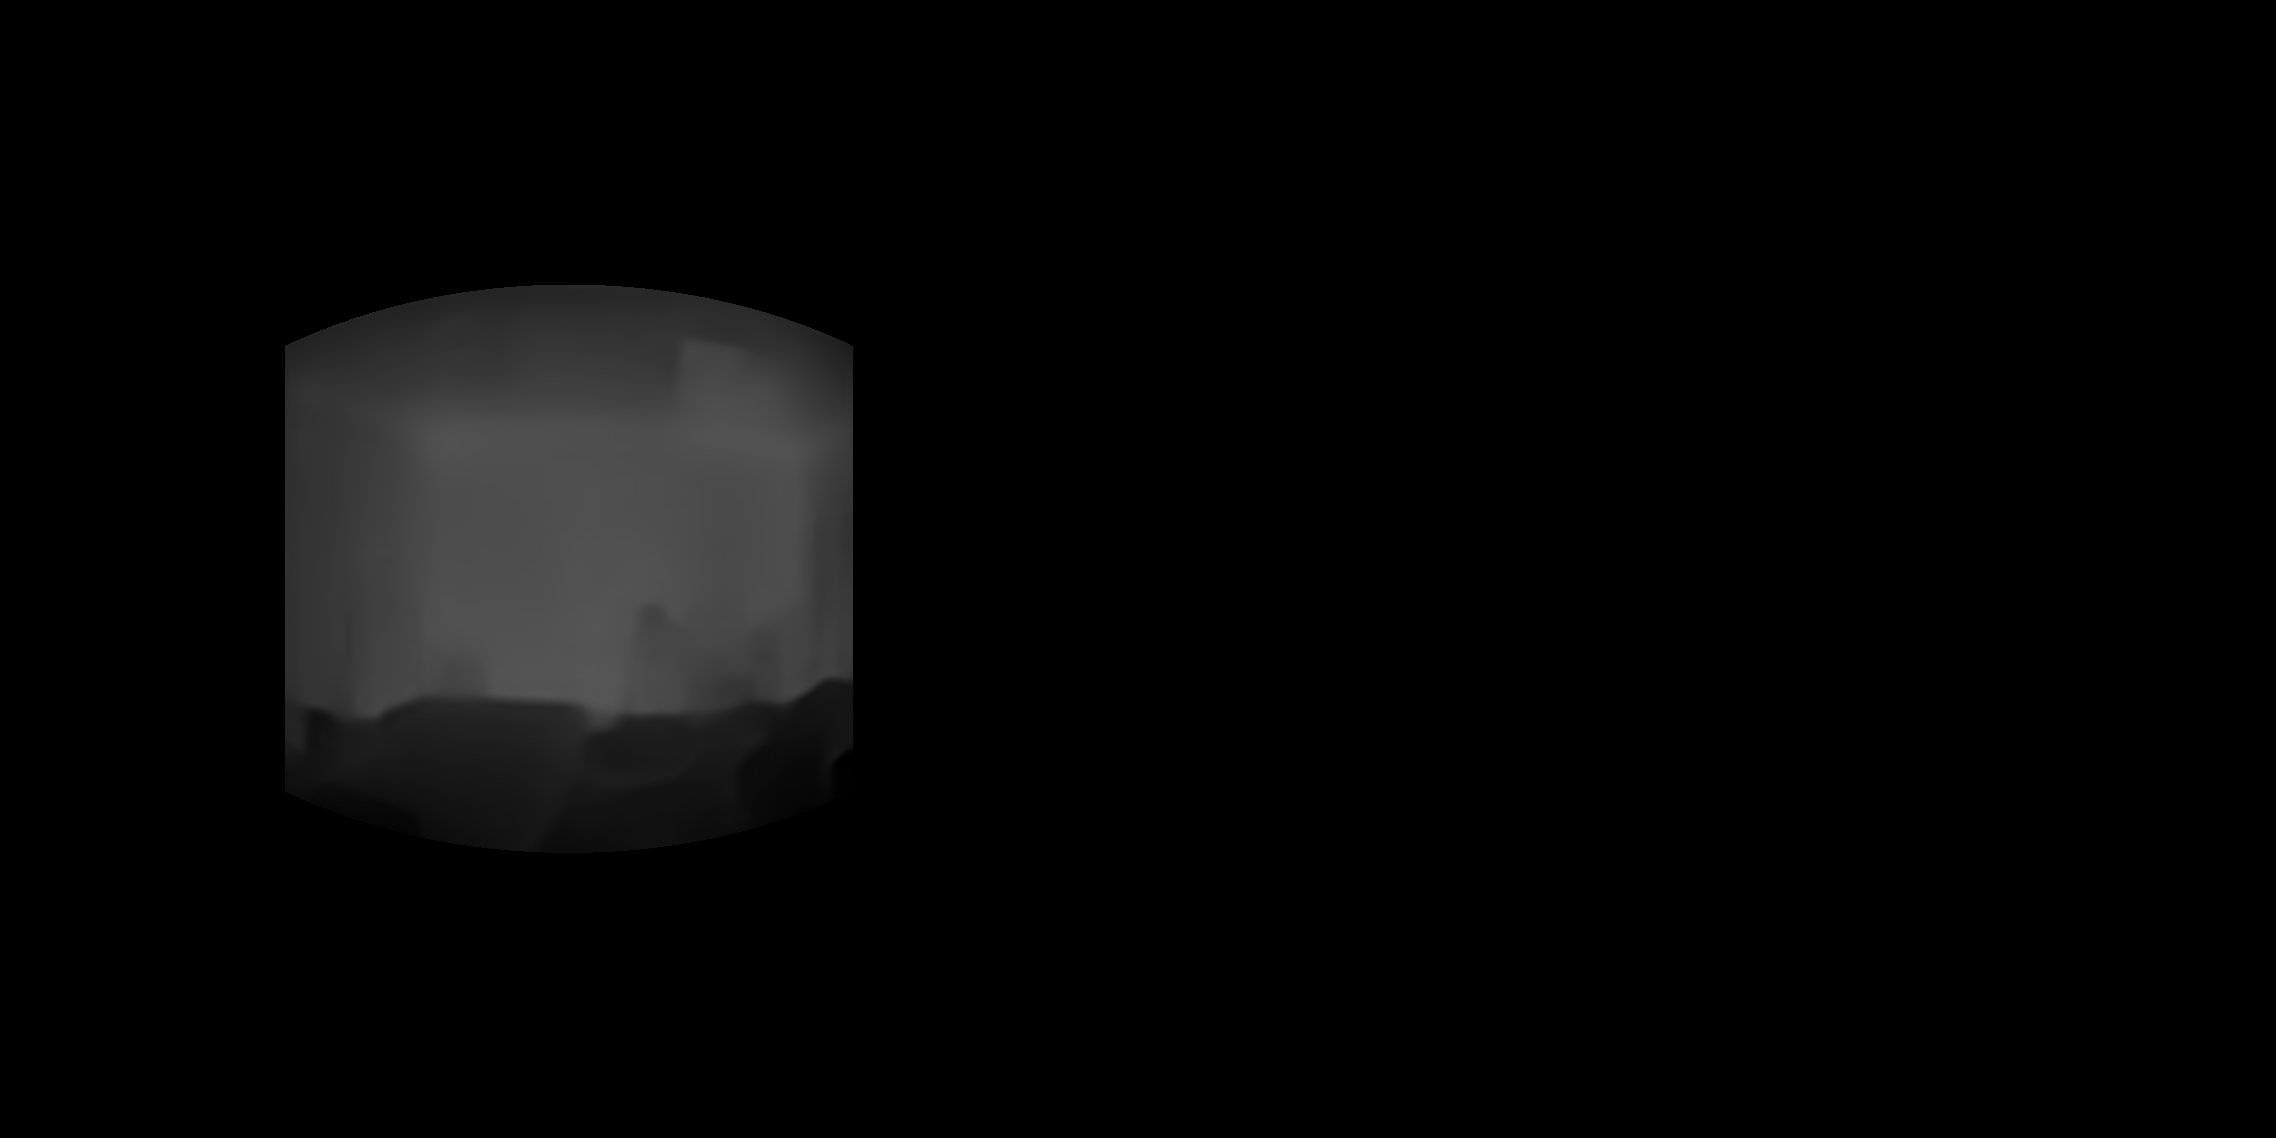
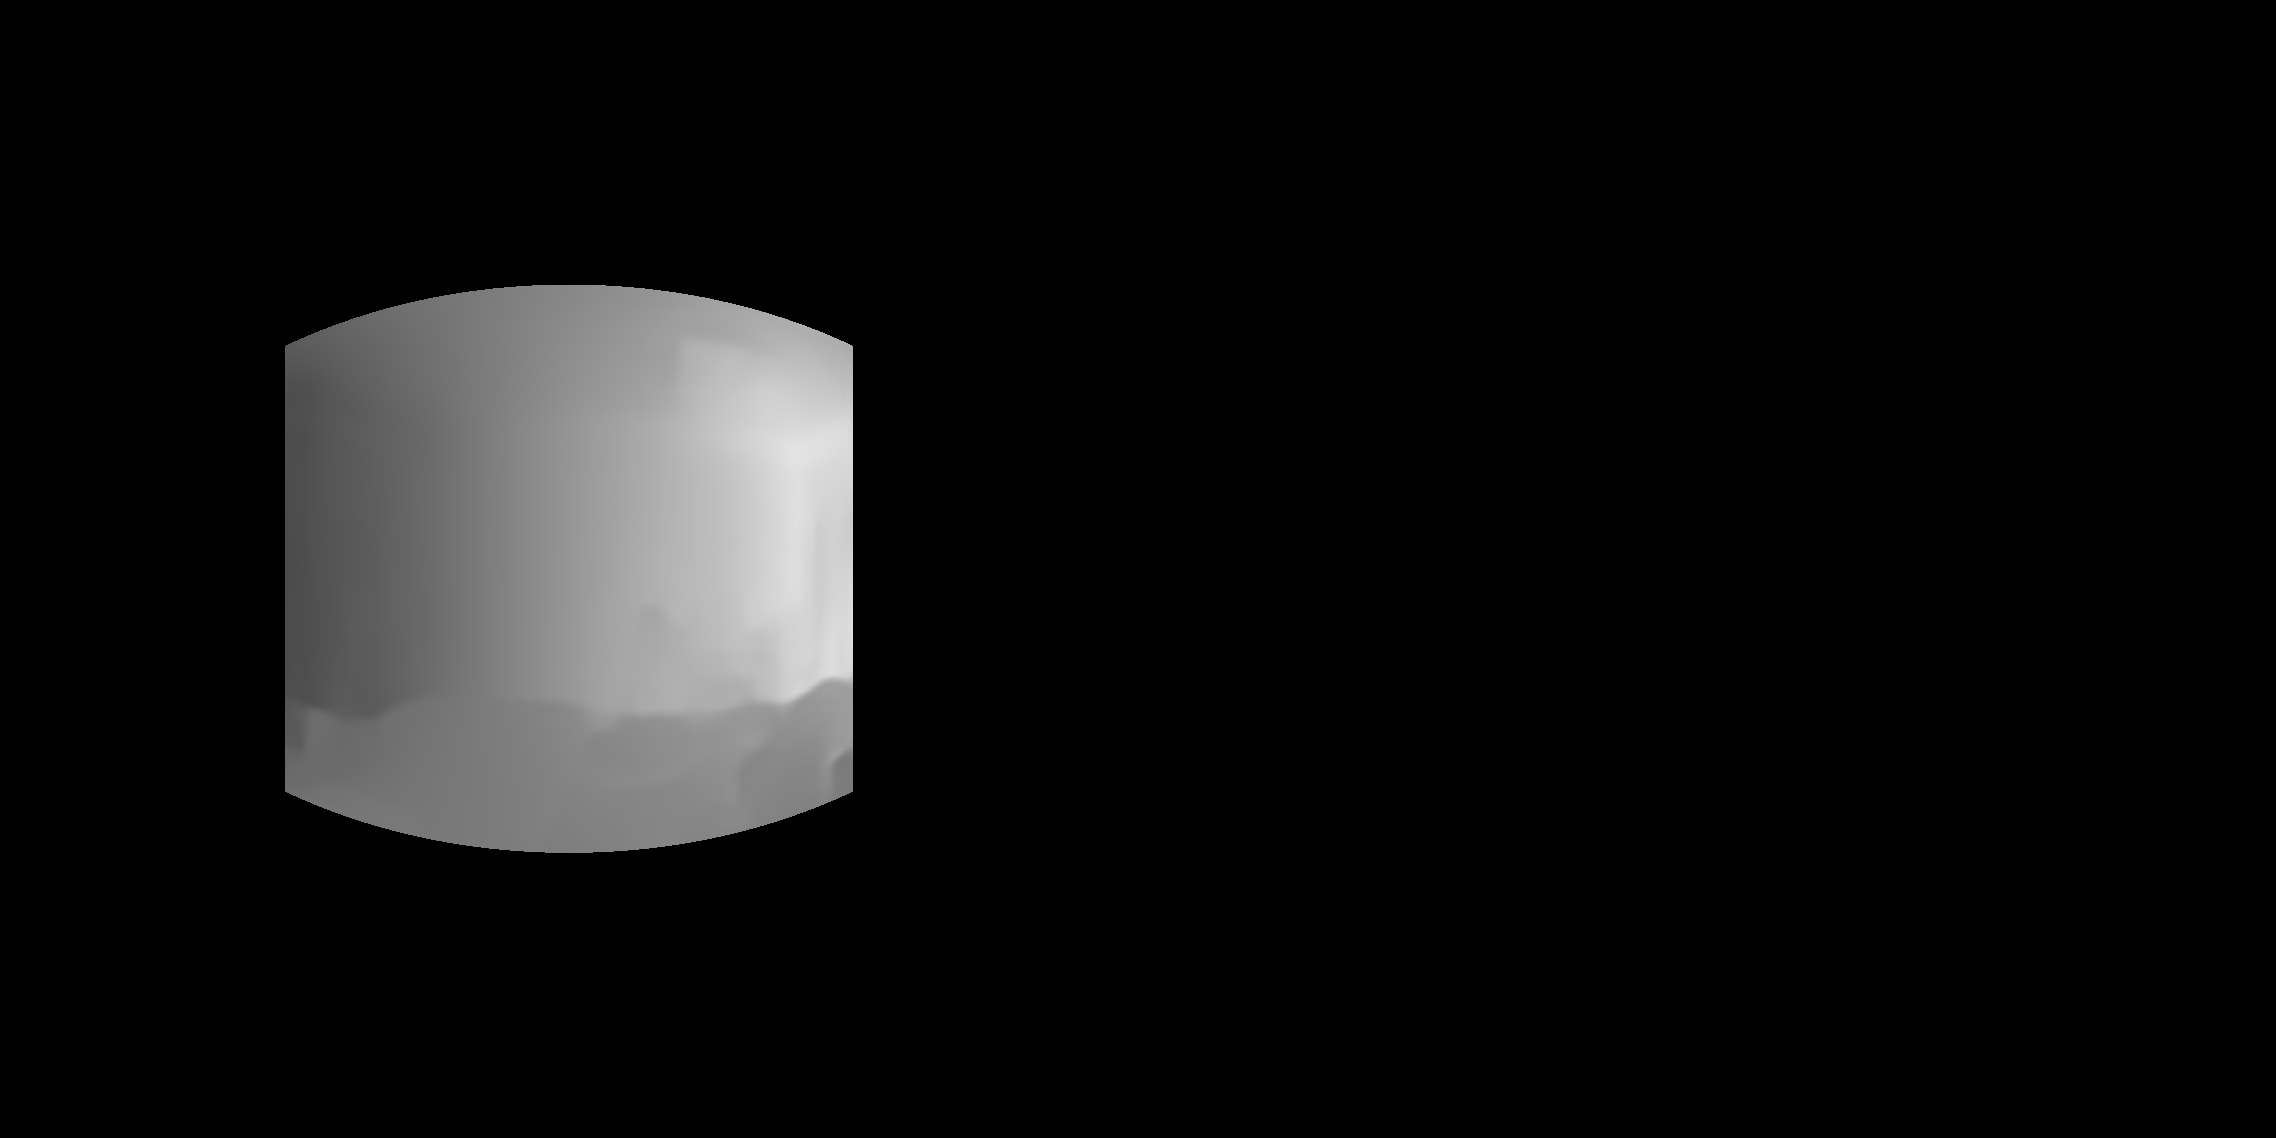
Added new weight function with independent systems for each edge.

Changed region(s): [[0.1248, 0.246, 0.3743, 0.7689]]

diff --git a/weights/cubeMap.py b/weights/cubeMap.py
@@ -1,8 +1,5 @@
 import numpy as np
-
-
-def cube_map_depth_weights(images, exclude_poles=False):
-    """ Find coefficients for weighing depth images of a 360 image cube-map
+""" Find weights for weighing depth images of a 360 image cube-map
         for "normalizing" the estimated depth
 
     The function expects a cube-map of a spherical image, where the following
@@ -17,45 +14,75 @@ def cube_map_depth_weights(images, exclude_poles=False):
                   |  P5  |
                   |      |
                   *------*
-    """
+"""
+
+
+def top(scan, edge_length):
+    return scan, 0
+
+
+def top_inv(scan, edge_length):
+    return edge_length - 1 - scan, 0
+
+
+def bottom(scan, edge_length):
+    return scan, edge_length - 1
+
+
+def bottom_inv(scan, edge_length):
+    return edge_length - 1 - scan, edge_length - 1
+
+
+def left(scan, edge_length):
+    return 0, scan
+
+
+def right(scan, edge_length):
+    return edge_length - 1, scan
+
+
+center_edges = [
+    (0, right, 1, left),
+    (1, right, 2, left),
+    (2, right, 3, left),
+    (3, right, 0, left)]
+
+pole_edges = [
+    (4, top, 2, top_inv),
+    (4, left, 3, top),
+    (4, bottom, 0, top),
+    (4, right, 1, top_inv),
+    (5, top, 0, bottom),
+    (5, left, 3, bottom_inv),
+    (5, bottom, 2, bottom_inv),
+    (5, right, 1, bottom)]
+
+
+def add_equations_to_system(system, edge, edge_length, images, num_weights):
+    plane_a, direction_a, plane_b, direction_b = edge
+    for scan in range(edge_length):
+        pixel_a = images.item(plane_a, *direction_a(scan, edge_length))
+        pixel_b = images.item(plane_b, *direction_b(scan, edge_length))
+        equation = np.zeros(num_weights)
+        equation.itemset(plane_a, pixel_a)
+        equation.itemset(plane_b, -pixel_b)
+        system.append(equation)
+    return system
+
+
+def single_weights(images, exclude_poles=True):
     num_images = (4 if exclude_poles else 6)
-    num_coefficients = num_images
+    num_weights = num_images
 
     assert(images.shape[0] == num_images)
     assert(images.shape[1] == images.shape[2])
     image_size = images.shape[1]
 
-    # Define scanning function for each edge direction
-    def top(scan): return scan, 0
-
-    def top_inv(scan): return image_size - 1 - scan, 0
-
-    def bottom(scan): return scan, image_size - 1
-
-    def bottom_inv(scan): return image_size - 1 - scan, image_size - 1
-
-    def left(scan): return 0, scan
-
-    def right(scan): return image_size - 1, scan
-
     # Non-pole edges are a special, simpler case.
-    edges = [
-        (0, right, 1, left),
-        (1, right, 2, left),
-        (2, right, 3, left),
-        (3, right, 0, left)]
-
+    edges = center_edges
     # if poles are included, add edges
     if not exclude_poles:
-        edges += [
-            (4, top, 2, top_inv),
-            (4, left, 3, top),
-            (4, bottom, 0, top),
-            (4, right, 1, top_inv),
-            (5, top, 0, bottom),
-            (5, left, 3, bottom_inv),
-            (5, bottom, 2, bottom_inv),
-            (5, right, 1, bottom)]
+        edges += pole_edges
 
     # Initialize empty equation system
     system = []
@@ -63,13 +90,52 @@ def cube_map_depth_weights(images, exclude_poles=False):
     # iterate through edges to find the constraints
     for (plane_a, direction_a, plane_b, direction_b) in edges:
         for scan in range(image_size):
-            pixel_a = images.item(plane_a, *direction_a(scan))
-            pixel_b = images.item(plane_b, *direction_b(scan))
-            equation = np.zeros(num_coefficients)
+            pixel_a = images.item(plane_a, *direction_a(scan, image_size))
+            pixel_b = images.item(plane_b, *direction_b(scan, image_size))
+            equation = np.zeros(num_weights)
             equation.itemset(plane_a, pixel_a)
             equation.itemset(plane_b, -pixel_b)
             system.append(equation)
-    # Find the minimum coefficients to transform images
+    # Find the minimum weights to transform images
     system = np.array(system)
     u, s, v = np.linalg.svd(system)
     return v[-1]
+
+
+def per_edge_weights(images, exclude_poles=True):
+    num_images = (4 if exclude_poles else 6)
+
+    assert(images.shape[0] == num_images)
+    assert(images.shape[1] == images.shape[2])
+    image_size = images.shape[1]
+
+    # Non-pole edges are a special, simpler case.
+    edges = center_edges
+    # if poles are included, add edges
+    if not exclude_poles:
+        edges += pole_edges
+
+    # Initialize empty equation system
+    weights = {}
+    # iterate through edges to find the constraints
+    for (plane_a, direction_a, plane_b, direction_b) in edges:
+        system = []
+        for scan in range(image_size):
+            pixel_a = images.item(plane_a, *direction_a(scan, image_size))
+            pixel_b = images.item(plane_b, *direction_b(scan, image_size))
+            equation = np.zeros(2)
+            equation.itemset(0, pixel_a)
+            equation.itemset(1, -pixel_b)
+            system.append(equation)
+        system = np.array(system)
+        u, s, v = np.linalg.svd(system)
+        weights[(plane_a, plane_b)] = v[-1]
+
+    output = [(0, 0) for x in range(num_images)]
+    for i in range(num_images):
+        for (left_image, right_image), (left_weight, right_weight) in weights.iteritems():
+            if i == left_image:
+                output[i] = (output[i][0], left_weight)
+            elif i == right_image:
+                output[i] = (right_weight, output[i][1])
+    return output

diff --git a/run.py b/run.py
@@ -8,7 +8,7 @@ from partition.rotateSphere import rotateSphere, rotateBack
 from partition.perspectiveToEquirectangular import perspectiveToEquirectangular
 from partition.equirectangularToPerspective import equirectangularToPerspective
 
-from weights.cubeMap import cube_map_depth_weights
+from weights.cubeMap import per_edge_weights
 
 path = os.path.dirname(os.path.realpath(__file__))
 
@@ -18,7 +18,7 @@ def mapImage(function, image):
     for i in range(image.shape[0]):
         for j in range(image.shape[1]):
             pixel = image.item((i, j))
-            mapped.itemset((i, j), function(pixel))
+            mapped.itemset((i, j), function(pixel, i, j))
     return mapped
 
 
@@ -37,16 +37,17 @@ if __name__ == "__main__":
     rotated = filename('rotated')
     crop = filename('crop')
     depth = filename('depth')
-    normalized = filename('normalized')
+    weighted = filename('weighted')
     reprojected = filename('reprojection')
     validmap = filename('validmap')
     output = filename('output')
     outputmap = filename('outputmap')
-
+    input_size = cv2.imread(image).shape
     # config values
     run_depth_prediction = False
-    reconstruct_sphere = False
-    reconstruct_in = normalized
+    run_weighting = True
+    reconstruct_sphere = True
+    reconstruct_in = weighted
     fov_h = 89.99  # 60.0
     fov = (90, 90)
     crop_size = 640
@@ -79,26 +80,30 @@ if __name__ == "__main__":
         depth_values.append(cv2.imread(depth(i), 0).astype(np.float32) / 255.0)
 
     # Run solving algorithm
-    s = cube_map_depth_weights(np.array(depth_values), exclude_poles=True)
-    print(s)
-    new_depths = []
-    for i in range(len(s)):
-        new_img = (depth_values[i] * s[i])
-        new_depths.append(new_img)
-    new_depths = np.array(new_depths)
-    maxValue = np.amax(new_depths)
-    minValue = np.amin(new_depths)
-    print("Max: %s, Min: %s" % (maxValue, minValue))
-    for i in range(len(s)):
-        normalized_image = mapImage(
-            lambda p: (p - minValue) /
-            (maxValue - minValue) * 255,
-            new_depths[i])
-        cv2.imwrite(normalized(i), normalized_image)
+    weights = per_edge_weights(np.array(depth_values))
+    print(weights)
+
+    if(run_weighting):
+        new_depths = []
+        for i in range(len(weights)):
+            w1, w2 = weights[i]
+            new_img = mapImage(lambda pixel, i, j: (
+                pixel * ((img_size - j) * w1 + j * w2) / float(img_size)), depth_values[i])
+            new_depths.append(new_img)
+        new_depths = np.array(new_depths)
+        maxValue = np.amax(new_depths)
+        minValue = np.amin(new_depths)
+        print("Max: %s, Min: %s" % (maxValue, minValue))
+        for i in range(len(weights)):
+            weighted_image = mapImage(
+                lambda p, i, j: (p - minValue) /
+                (maxValue - minValue) * 255,
+                new_depths[i])
+            cv2.imwrite(weighted(i), weighted_image)
 
     # Reconstruct sphere
     if(reconstruct_sphere):
-        reconstructed = np.zeros((1138, 2276))
+        reconstructed = np.zeros((input_size[0], input_size[1]))
         for i, (phi, theta) in enumerate(angles):
 
             alpha, beta, gamma = np.radians([0, phi, -theta])
